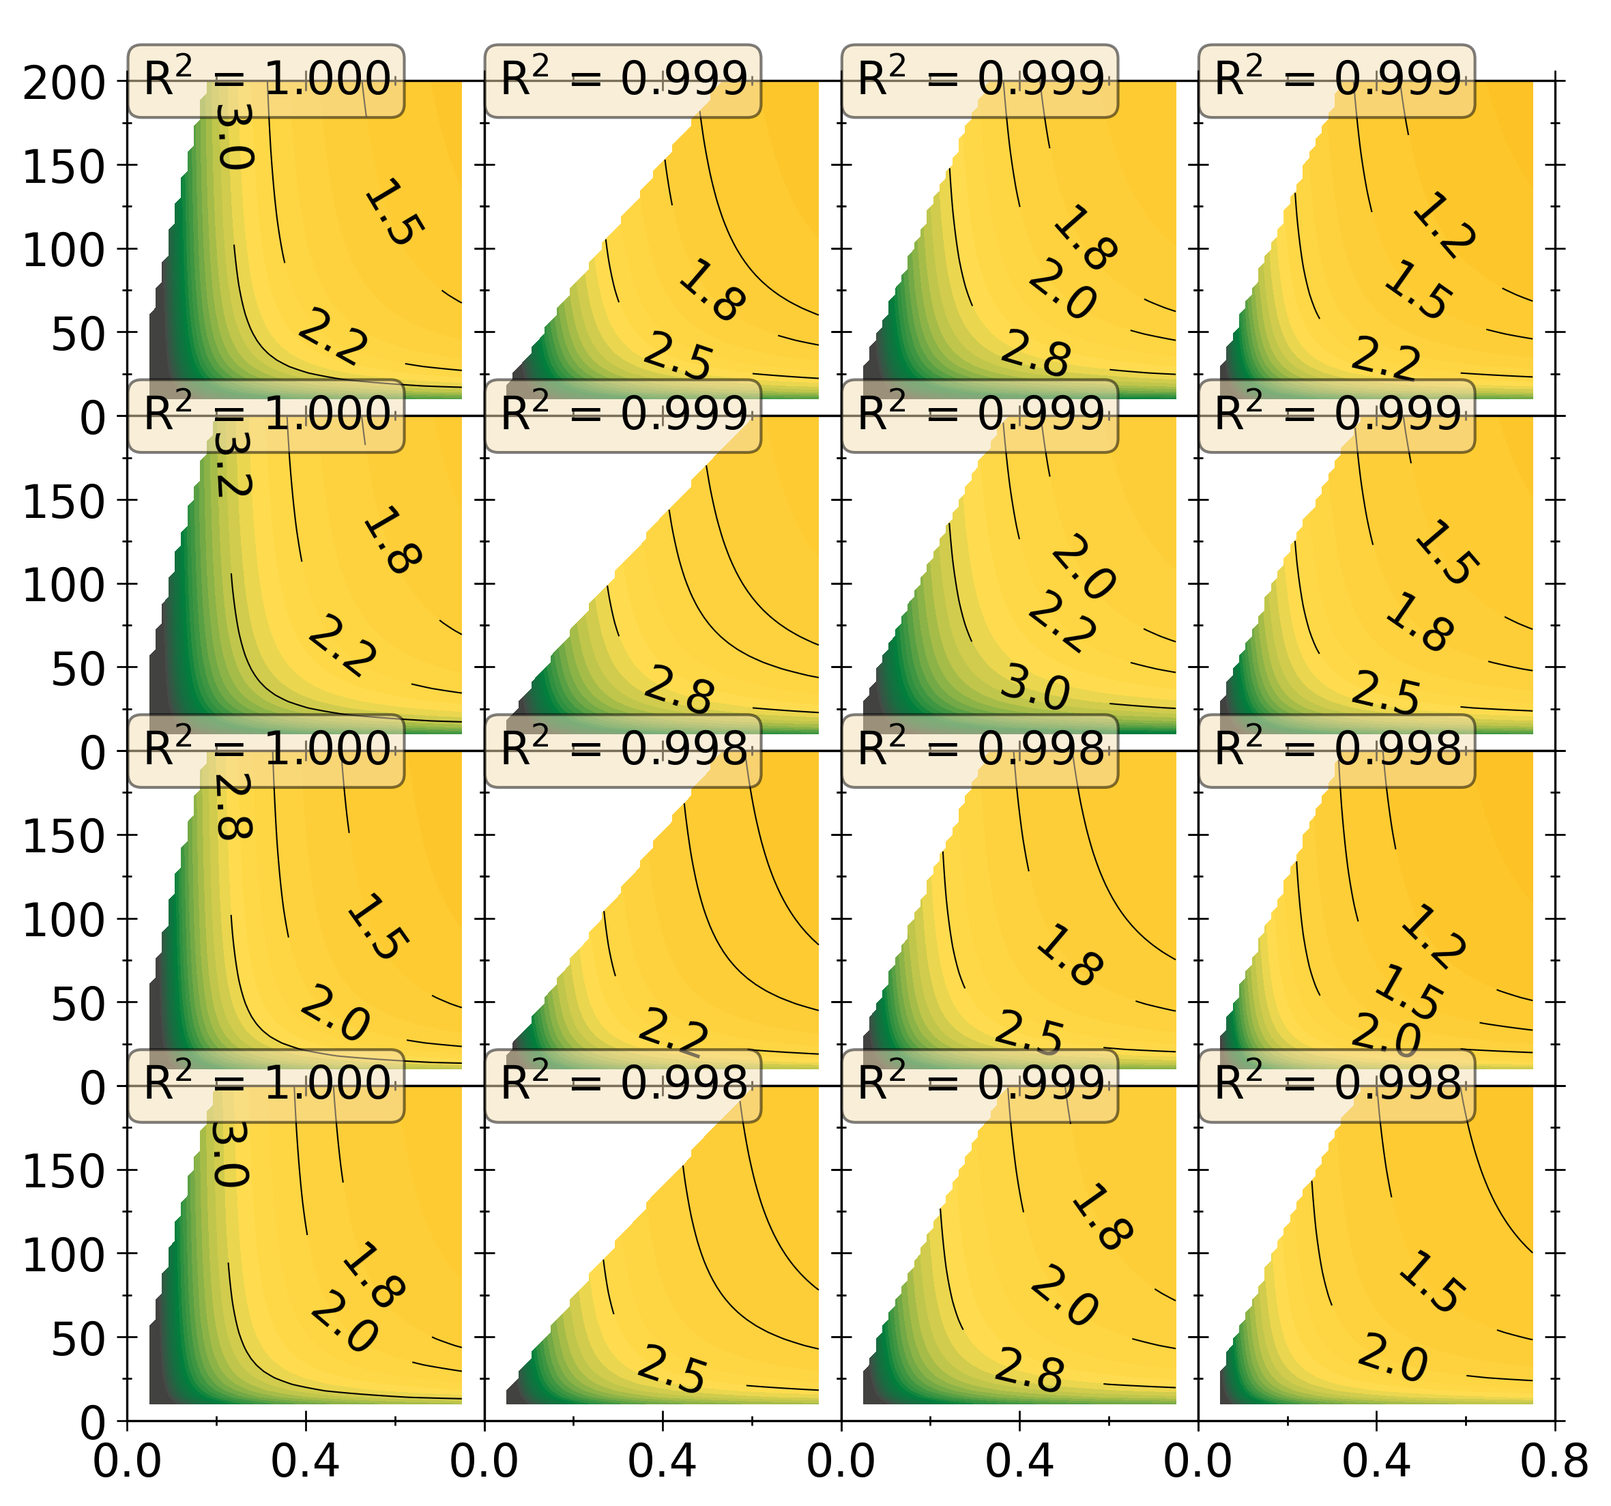
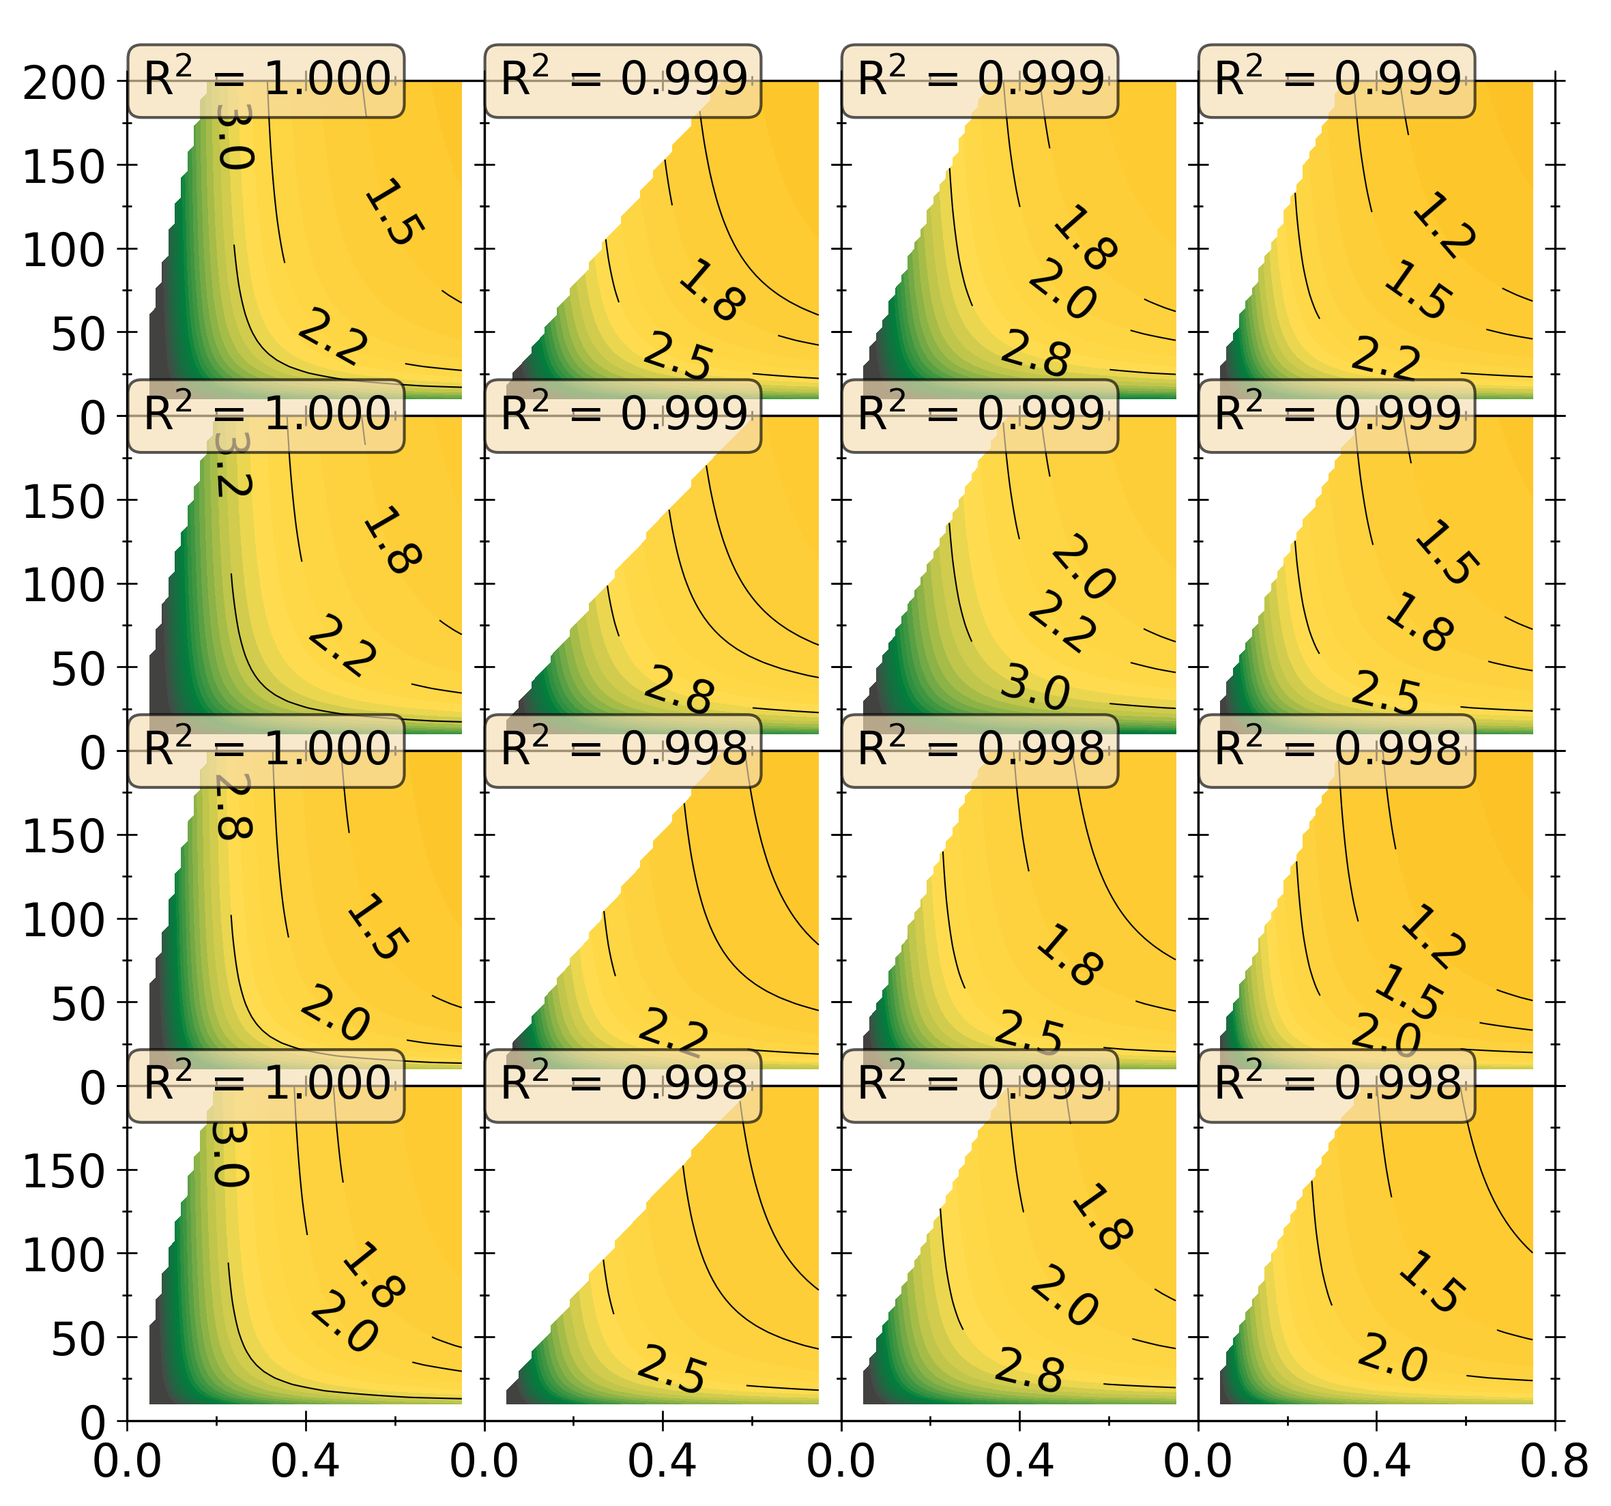
reduce alpha for R^2 boxes and other minor updates

diff --git a/fermentation_insights/generate_plots/residual_MPSP_TRY_multipanel_plots/baseline_productivities/HP_all_resMPSP_TRY_fit_plot.py b/fermentation_insights/generate_plots/residual_MPSP_TRY_multipanel_plots/baseline_productivities/HP_all_resMPSP_TRY_fit_plot.py
@@ -110,6 +110,8 @@ def get_w_ticks_from_percentiles(w_array, w_levels, percentiles=(25, 50, 75), cb
 min_min = np.inf
 max_max = - np.inf
 
+combined_metric_vals = []
+
 for i, product_ID in zip(range(len(product_IDs)), product_IDs):
     axs_list = None
     if len(product_IDs)>1:
@@ -345,6 +347,7 @@ for i, product_ID in zip(range(len(product_IDs)), product_IDs):
         # Statistics
         print(product_ID, feedstock_ID)
         non_nan_vals = results_metric_1[np.where(~np.isnan((results_metric_1)))]
+        combined_metric_vals+=list(non_nan_vals.flatten())
         print(f'Mean abs: {np.mean(np.abs(non_nan_vals))}')
         print(f'Median abs: {np.median(np.abs(non_nan_vals))}')
         print(f'5th perc abs: {np.percentile(np.abs(non_nan_vals), 5)}')
@@ -358,7 +361,20 @@ for i, product_ID in zip(range(len(product_IDs)), product_IDs):
         if np.max(non_nan_vals) > max_max: 
             max_max = np.max(non_nan_vals)
 
-print(f'\nOverall min and max are {min_min} and {max_max}, respectively.\n\n')
+combined_metric_vals = np.array(combined_metric_vals)
+
+print('\n\n Overall:')
+print(f'Mean abs: {np.mean(np.abs(combined_metric_vals))}')
+print(f'Median abs: {np.median(np.abs(combined_metric_vals))}')
+print(f'5th perc abs: {np.percentile(np.abs(combined_metric_vals), 5)}')
+print(f'95th perc abs: {np.percentile(np.abs(combined_metric_vals), 95)}')
+print(f'Min abs: {np.min(np.abs(combined_metric_vals))}')
+print(f'Max abs: {np.max(np.abs(combined_metric_vals))}\n')
+print(f'Median: {np.median((combined_metric_vals))}')
+print(f'5th perc: {np.percentile((combined_metric_vals), 5)}')
+print(f'95th perc: {np.percentile((combined_metric_vals), 95)}')
+print(f'Min: {np.min(combined_metric_vals)}')
+print(f'Max: {np.max(combined_metric_vals)}')
 
 #%%
 plt.subplots_adjust(wspace=0, hspace=0)

diff --git a/fermentation_insights/generate_plots/residual_MPSP_TRY_multipanel_plots/baseline_productivities/TAL_all_resMPSP_TRY_fit_plot.py b/fermentation_insights/generate_plots/residual_MPSP_TRY_multipanel_plots/baseline_productivities/TAL_all_resMPSP_TRY_fit_plot.py
@@ -110,6 +110,8 @@ def get_w_ticks_from_percentiles(w_array, w_levels, percentiles=(25, 50, 75), cb
 min_min = np.inf
 max_max = - np.inf
 
+combined_metric_vals = []
+
 for i, product_ID in zip(range(len(product_IDs)), product_IDs):
     axs_list = None
     if len(product_IDs)>1:
@@ -347,6 +349,7 @@ for i, product_ID in zip(range(len(product_IDs)), product_IDs):
         # Statistics
         print(product_ID, feedstock_ID)
         non_nan_vals = results_metric_1[np.where(~np.isnan((results_metric_1)))]
+        combined_metric_vals+=list(non_nan_vals.flatten())
         print(f'Mean abs: {np.mean(np.abs(non_nan_vals))}')
         print(f'Median abs: {np.median(np.abs(non_nan_vals))}')
         print(f'5th perc abs: {np.percentile(np.abs(non_nan_vals), 5)}')
@@ -360,7 +363,20 @@ for i, product_ID in zip(range(len(product_IDs)), product_IDs):
         if np.max(non_nan_vals) > max_max: 
             max_max = np.max(non_nan_vals)
 
-print(f'\nOverall min and max are {min_min} and {max_max}, respectively.\n\n')
+combined_metric_vals = np.array(combined_metric_vals)
+
+print('\n\n Overall:')
+print(f'Mean abs: {np.mean(np.abs(combined_metric_vals))}')
+print(f'Median abs: {np.median(np.abs(combined_metric_vals))}')
+print(f'5th perc abs: {np.percentile(np.abs(combined_metric_vals), 5)}')
+print(f'95th perc abs: {np.percentile(np.abs(combined_metric_vals), 95)}')
+print(f'Min abs: {np.min(np.abs(combined_metric_vals))}')
+print(f'Max abs: {np.max(np.abs(combined_metric_vals))}\n')
+print(f'Median: {np.median((combined_metric_vals))}')
+print(f'5th perc: {np.percentile((combined_metric_vals), 5)}')
+print(f'95th perc: {np.percentile((combined_metric_vals), 95)}')
+print(f'Min: {np.min(combined_metric_vals)}')
+print(f'Max: {np.max(combined_metric_vals)}')
 
 #%%
 plt.subplots_adjust(wspace=0, hspace=0)

diff --git a/fermentation_insights/generate_plots/residual_MPSP_TRY_multipanel_plots/baseline_productivities/succinic_resMPSP_TRY_fit_plot.py b/fermentation_insights/generate_plots/residual_MPSP_TRY_multipanel_plots/baseline_productivities/succinic_resMPSP_TRY_fit_plot.py
@@ -109,6 +109,8 @@ def get_w_ticks_from_percentiles(w_array, w_levels, percentiles=(25, 50, 75), cb
 min_min = np.inf
 max_max = - np.inf
 
+combined_metric_vals = []
+
 for i, product_ID in zip(range(len(product_IDs)), product_IDs):
     axs_list = None
     if len(product_IDs)>1:
@@ -344,6 +346,7 @@ for i, product_ID in zip(range(len(product_IDs)), product_IDs):
         # Statistics
         print(product_ID, feedstock_ID)
         non_nan_vals = results_metric_1[np.where(~np.isnan((results_metric_1)))]
+        combined_metric_vals+=list(non_nan_vals.flatten())
         print(f'Mean abs: {np.mean(np.abs(non_nan_vals))}')
         print(f'Median abs: {np.median(np.abs(non_nan_vals))}')
         print(f'5th perc abs: {np.percentile(np.abs(non_nan_vals), 5)}')
@@ -357,7 +360,20 @@ for i, product_ID in zip(range(len(product_IDs)), product_IDs):
         if np.max(non_nan_vals) > max_max: 
             max_max = np.max(non_nan_vals)
 
-print(f'\nOverall min and max are {min_min} and {max_max}, respectively.\n\n')
+combined_metric_vals = np.array(combined_metric_vals)
+
+print('\n\n Overall:')
+print(f'Mean abs: {np.mean(np.abs(combined_metric_vals))}')
+print(f'Median abs: {np.median(np.abs(combined_metric_vals))}')
+print(f'5th perc abs: {np.percentile(np.abs(combined_metric_vals), 5)}')
+print(f'95th perc abs: {np.percentile(np.abs(combined_metric_vals), 95)}')
+print(f'Min abs: {np.min(np.abs(combined_metric_vals))}')
+print(f'Max abs: {np.max(np.abs(combined_metric_vals))}\n')
+print(f'Median: {np.median((combined_metric_vals))}')
+print(f'5th perc: {np.percentile((combined_metric_vals), 5)}')
+print(f'95th perc: {np.percentile((combined_metric_vals), 95)}')
+print(f'Min: {np.min(combined_metric_vals)}')
+print(f'Max: {np.max(combined_metric_vals)}')
 
 #%%
 plt.subplots_adjust(wspace=0, hspace=0)

diff --git a/fermentation_insights/generate_plots/MPSP_TRY_multipanel_plots/baseline_productivities/succinic_all_TRY_fit_plot.py b/fermentation_insights/generate_plots/MPSP_TRY_multipanel_plots/baseline_productivities/succinic_all_TRY_fit_plot.py
@@ -29,7 +29,7 @@ def CABBI_green_colormap(N_levels=90):
     return LinearSegmentedColormap.from_list('CABBI', CABBI_colors, N_levels)
 
 #%%
-os.chdir('C://Users//saran//Documents//Academia//repository_clones//fermentation_insights//fermentation_insights//TRY_results')
+os.chdir('C://Users//saran//Documents//Academia//repository_clones//fermentation_insights//fermentation_insights//results//data')
 
 product_IDs = [
                # 'TAL', 'TAL_SA', 
@@ -308,7 +308,7 @@ for i, product_ID in zip(range(len(product_IDs)), product_IDs):
         coefficients = np.load(f'{filename}_coefficients.npy')
         Rsq = coefficients[-1]
         textstr = "$\mathrm{R}^{2}$" + " = " + "%.3f"%(Rsq)
-        props = dict(boxstyle='round', facecolor='wheat', alpha=0.5)
+        props = dict(boxstyle='round', facecolor='wheat', alpha=0.65)
         
         # place a text box in upper left in axes coords
         ax.text(
@@ -319,7 +319,8 @@ for i, product_ID in zip(range(len(product_IDs)), product_IDs):
                 # transform=ax.transAxes, 
                 fontsize=axis_tick_fontsize,
                 # verticalalignment='top', 
-                bbox=props)
+                bbox=props,
+                zorder=10000)
         
 #%%
 plt.subplots_adjust(wspace=0, hspace=0)

diff --git a/fermentation_insights/generate_plots/MPSP_TRY_multipanel_plots/baseline_x0.2_productivities/HP_all_TRY_fit_plot.py b/fermentation_insights/generate_plots/MPSP_TRY_multipanel_plots/baseline_x0.2_productivities/HP_all_TRY_fit_plot.py
@@ -29,7 +29,7 @@ def CABBI_green_colormap(N_levels=90):
     return LinearSegmentedColormap.from_list('CABBI', CABBI_colors, N_levels)
 
 #%%
-os.chdir('C://Users//saran//Documents//Academia//repository_clones//fermentation_insights//fermentation_insights//TRY_results')
+os.chdir('C://Users//saran//Documents//Academia//repository_clones//fermentation_insights//fermentation_insights//results//data')
 
 product_IDs = [
                # 'TAL', 'TAL_SA', 
@@ -306,7 +306,7 @@ for i, product_ID in zip(range(len(product_IDs)), product_IDs):
         coefficients = np.load(f'{filename}_coefficients.npy')
         Rsq = coefficients[-1]
         textstr = "$\mathrm{R}^{2}$" + " = " + "%.3f"%(Rsq)
-        props = dict(boxstyle='round', facecolor='wheat', alpha=0.5)
+        props = dict(boxstyle='round', facecolor='wheat', alpha=0.65)
         
         # place a text box in upper left in axes coords
         ax.text(
@@ -317,7 +317,8 @@ for i, product_ID in zip(range(len(product_IDs)), product_IDs):
                 # transform=ax.transAxes, 
                 fontsize=axis_tick_fontsize,
                 # verticalalignment='top', 
-                bbox=props)
+                bbox=props,
+                zorder=10000)
         
 #%%
 plt.subplots_adjust(wspace=0, hspace=0)

diff --git a/fermentation_insights/generate_plots/MPSP_TRY_multipanel_plots/baseline_x0.2_productivities/succinic_all_TRY_fit_plot.py b/fermentation_insights/generate_plots/MPSP_TRY_multipanel_plots/baseline_x0.2_productivities/succinic_all_TRY_fit_plot.py
@@ -29,7 +29,7 @@ def CABBI_green_colormap(N_levels=90):
     return LinearSegmentedColormap.from_list('CABBI', CABBI_colors, N_levels)
 
 #%%
-os.chdir('C://Users//saran//Documents//Academia//repository_clones//fermentation_insights//fermentation_insights//TRY_results')
+os.chdir('C://Users//saran//Documents//Academia//repository_clones//fermentation_insights//fermentation_insights//results//data')
 
 product_IDs = [
                # 'TAL', 'TAL_SA', 
@@ -308,7 +308,7 @@ for i, product_ID in zip(range(len(product_IDs)), product_IDs):
         coefficients = np.load(f'{filename}_coefficients.npy')
         Rsq = coefficients[-1]
         textstr = "$\mathrm{R}^{2}$" + " = " + "%.3f"%(Rsq)
-        props = dict(boxstyle='round', facecolor='wheat', alpha=0.5)
+        props = dict(boxstyle='round', facecolor='wheat', alpha=0.65)
         
         # place a text box in upper left in axes coords
         ax.text(
@@ -319,7 +319,8 @@ for i, product_ID in zip(range(len(product_IDs)), product_IDs):
                 # transform=ax.transAxes, 
                 fontsize=axis_tick_fontsize,
                 # verticalalignment='top', 
-                bbox=props)
+                bbox=props,
+                zorder=10000)
         
 #%%
 plt.subplots_adjust(wspace=0, hspace=0)

diff --git a/fermentation_insights/generate_plots/MPSP_TRY_multipanel_plots/baseline_x5.0_productivities/HP_all_TRY_fit_plot.py b/fermentation_insights/generate_plots/MPSP_TRY_multipanel_plots/baseline_x5.0_productivities/HP_all_TRY_fit_plot.py
@@ -29,7 +29,7 @@ def CABBI_green_colormap(N_levels=90):
     return LinearSegmentedColormap.from_list('CABBI', CABBI_colors, N_levels)
 
 #%%
-os.chdir('C://Users//saran//Documents//Academia//repository_clones//fermentation_insights//fermentation_insights//TRY_results')
+os.chdir('C://Users//saran//Documents//Academia//repository_clones//fermentation_insights//fermentation_insights//results//data')
 
 product_IDs = [
                # 'TAL', 'TAL_SA', 
@@ -306,7 +306,7 @@ for i, product_ID in zip(range(len(product_IDs)), product_IDs):
         coefficients = np.load(f'{filename}_coefficients.npy')
         Rsq = coefficients[-1]
         textstr = "$\mathrm{R}^{2}$" + " = " + "%.3f"%(Rsq)
-        props = dict(boxstyle='round', facecolor='wheat', alpha=0.5)
+        props = dict(boxstyle='round', facecolor='wheat', alpha=0.65)
         
         # place a text box in upper left in axes coords
         ax.text(
@@ -317,7 +317,8 @@ for i, product_ID in zip(range(len(product_IDs)), product_IDs):
                 # transform=ax.transAxes, 
                 fontsize=axis_tick_fontsize,
                 # verticalalignment='top', 
-                bbox=props)
+                bbox=props,
+                zorder=10000)
         
 #%%
 plt.subplots_adjust(wspace=0, hspace=0)

diff --git a/fermentation_insights/generate_plots/MPSP_TRY_multipanel_plots/baseline_x5.0_productivities/succinic_all_TRY_fit_plot.py b/fermentation_insights/generate_plots/MPSP_TRY_multipanel_plots/baseline_x5.0_productivities/succinic_all_TRY_fit_plot.py
@@ -29,7 +29,7 @@ def CABBI_green_colormap(N_levels=90):
     return LinearSegmentedColormap.from_list('CABBI', CABBI_colors, N_levels)
 
 #%%
-os.chdir('C://Users//saran//Documents//Academia//repository_clones//fermentation_insights//fermentation_insights//TRY_results')
+os.chdir('C://Users//saran//Documents//Academia//repository_clones//fermentation_insights//fermentation_insights//results//data')
 
 product_IDs = [
                # 'TAL', 'TAL_SA', 
@@ -308,7 +308,7 @@ for i, product_ID in zip(range(len(product_IDs)), product_IDs):
         coefficients = np.load(f'{filename}_coefficients.npy')
         Rsq = coefficients[-1]
         textstr = "$\mathrm{R}^{2}$" + " = " + "%.3f"%(Rsq)
-        props = dict(boxstyle='round', facecolor='wheat', alpha=0.5)
+        props = dict(boxstyle='round', facecolor='wheat', alpha=0.65)
         
         # place a text box in upper left in axes coords
         ax.text(
@@ -319,7 +319,8 @@ for i, product_ID in zip(range(len(product_IDs)), product_IDs):
                 # transform=ax.transAxes, 
                 fontsize=axis_tick_fontsize,
                 # verticalalignment='top', 
-                bbox=props)
+                bbox=props,
+                zorder=10000)
         
 #%%
 plt.subplots_adjust(wspace=0, hspace=0)

diff --git a/fermentation_insights/generate_plots/MPSP_TRY_multipanel_plots/baseline_x5.0_productivities/TAL_all_TRY_fit_plot.py b/fermentation_insights/generate_plots/MPSP_TRY_multipanel_plots/baseline_x5.0_productivities/TAL_all_TRY_fit_plot.py
@@ -31,7 +31,7 @@ def CABBI_green_colormap(N_levels=90):
     return LinearSegmentedColormap.from_list('CABBI', CABBI_colors, N_levels)
 
 #%%
-os.chdir('C://Users//saran//Documents//Academia//repository_clones//fermentation_insights//fermentation_insights//TRY_results')
+os.chdir('C://Users//saran//Documents//Academia//repository_clones//fermentation_insights//fermentation_insights//results//data')
 
 product_IDs = [
                'TAL', 'TAL_SA', 
@@ -308,7 +308,7 @@ for i, product_ID in zip(range(len(product_IDs)), product_IDs):
         coefficients = np.load(f'{filename}_coefficients.npy')
         Rsq = coefficients[-1]
         textstr = "$\mathrm{R}^{2}$" + " = " + "%.3f"%(Rsq)
-        props = dict(boxstyle='round', facecolor='wheat', alpha=0.5)
+        props = dict(boxstyle='round', facecolor='wheat', alpha=0.65,)
         
         # place a text box in upper left in axes coords
         ax.text(
@@ -319,7 +319,8 @@ for i, product_ID in zip(range(len(product_IDs)), product_IDs):
                 # transform=ax.transAxes, 
                 fontsize=axis_tick_fontsize,
                 # verticalalignment='top', 
-                bbox=props)
+                bbox=props,
+                zorder=10000)
 
 #%%
 plt.subplots_adjust(wspace=0, hspace=0)

diff --git a/fermentation_insights/generate_plots/MPSP_TRY_multipanel_plots/baseline_productivities/TAL_all_TRY_fit_plot.py b/fermentation_insights/generate_plots/MPSP_TRY_multipanel_plots/baseline_productivities/TAL_all_TRY_fit_plot.py
@@ -31,7 +31,7 @@ def CABBI_green_colormap(N_levels=90):
     return LinearSegmentedColormap.from_list('CABBI', CABBI_colors, N_levels)
 
 #%%
-os.chdir('C://Users//saran//Documents//Academia//repository_clones//fermentation_insights//fermentation_insights//TRY_results')
+os.chdir('C://Users//saran//Documents//Academia//repository_clones//fermentation_insights//fermentation_insights//results//data')
 
 product_IDs = [
                'TAL', 'TAL_SA', 
@@ -308,7 +308,7 @@ for i, product_ID in zip(range(len(product_IDs)), product_IDs):
         coefficients = np.load(f'{filename}_coefficients.npy')
         Rsq = coefficients[-1]
         textstr = "$\mathrm{R}^{2}$" + " = " + "%.3f"%(Rsq)
-        props = dict(boxstyle='round', facecolor='wheat', alpha=0.5)
+        props = dict(boxstyle='round', facecolor='wheat', alpha=0.65)
         
         # place a text box in upper left in axes coords
         ax.text(
@@ -319,7 +319,8 @@ for i, product_ID in zip(range(len(product_IDs)), product_IDs):
                 # transform=ax.transAxes, 
                 fontsize=axis_tick_fontsize,
                 # verticalalignment='top', 
-                bbox=props)
+                bbox=props,
+                zorder=10000)
 
 #%%
 plt.subplots_adjust(wspace=0, hspace=0)

diff --git a/fermentation_insights/generate_plots/MPSP_TRY_multipanel_plots/baseline_x0.2_productivities/TAL_all_TRY_fit_plot.py b/fermentation_insights/generate_plots/MPSP_TRY_multipanel_plots/baseline_x0.2_productivities/TAL_all_TRY_fit_plot.py
@@ -31,7 +31,7 @@ def CABBI_green_colormap(N_levels=90):
     return LinearSegmentedColormap.from_list('CABBI', CABBI_colors, N_levels)
 
 #%%
-os.chdir('C://Users//saran//Documents//Academia//repository_clones//fermentation_insights//fermentation_insights//TRY_results')
+os.chdir('C://Users//saran//Documents//Academia//repository_clones//fermentation_insights//fermentation_insights//results//data')
 
 product_IDs = [
                'TAL', 'TAL_SA', 
@@ -312,7 +312,7 @@ for i, product_ID in zip(range(len(product_IDs)), product_IDs):
         coefficients = np.load(f'{filename}_coefficients.npy')
         Rsq = coefficients[-1]
         textstr = "$\mathrm{R}^{2}$" + " = " + "%.3f"%(Rsq)
-        props = dict(boxstyle='round', facecolor='wheat', alpha=0.5)
+        props = dict(boxstyle='round', facecolor='wheat', alpha=0.65)
         
         # place a text box in upper left in axes coords
         ax.text(
@@ -323,7 +323,8 @@ for i, product_ID in zip(range(len(product_IDs)), product_IDs):
                 # transform=ax.transAxes, 
                 fontsize=axis_tick_fontsize,
                 # verticalalignment='top', 
-                bbox=props)
+                bbox=props,
+                zorder=10000)
 
 #%%
 plt.subplots_adjust(wspace=0, hspace=0)

diff --git a/fermentation_insights/generate_plots/MPSP_TRY_multipanel_plots/baseline_productivities/HP_all_TRY_fit_plot.py b/fermentation_insights/generate_plots/MPSP_TRY_multipanel_plots/baseline_productivities/HP_all_TRY_fit_plot.py
@@ -306,7 +306,7 @@ for i, product_ID in zip(range(len(product_IDs)), product_IDs):
         coefficients = np.load(f'{filename}_coefficients.npy')
         Rsq = coefficients[-1]
         textstr = "$\mathrm{R}^{2}$" + " = " + "%.3f"%(Rsq)
-        props = dict(boxstyle='round', facecolor='wheat', alpha=0.5)
+        props = dict(boxstyle='round', facecolor='wheat', alpha=0.65)
         
         # place a text box in upper left in axes coords
         ax.text(
@@ -317,7 +317,8 @@ for i, product_ID in zip(range(len(product_IDs)), product_IDs):
                 # transform=ax.transAxes, 
                 fontsize=axis_tick_fontsize,
                 # verticalalignment='top', 
-                bbox=props)
+                bbox=props,
+                zorder=10000)
         
 #%%
 plt.subplots_adjust(wspace=0, hspace=0)
